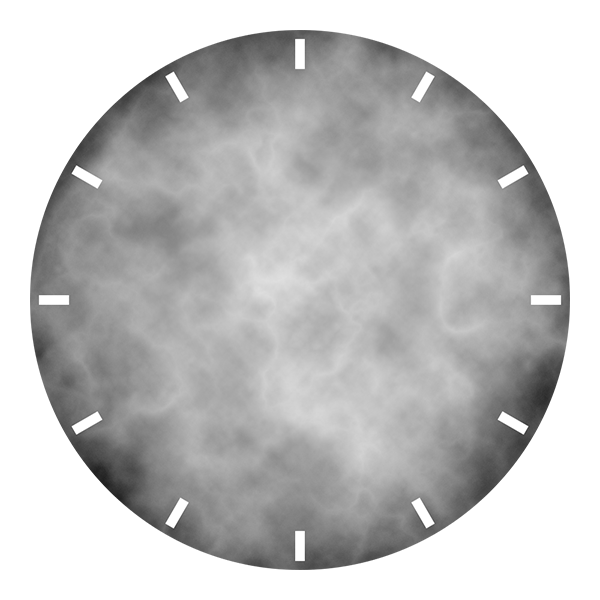
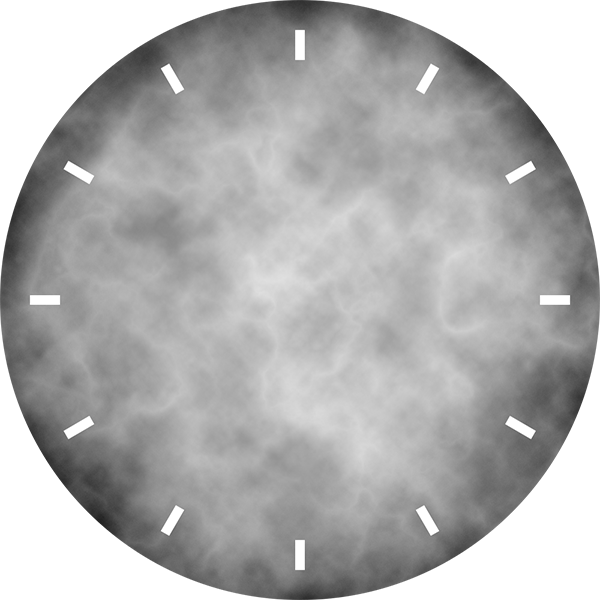
Moon Shadow

Changed region(s): [[0.0, 0.0, 1.0, 1.0]]

diff --git a/public/css/analogclock.css b/public/css/analogclock.css
@@ -11,6 +11,8 @@ html, body {
     margin: 20px auto 0 auto;
     background: url('/img/clockface.png');
     list-style: none;
+    border-radius: 300px;
+    box-shadow: 0 0 25px #000;
 }
 
 #sec, #min, #hour {
